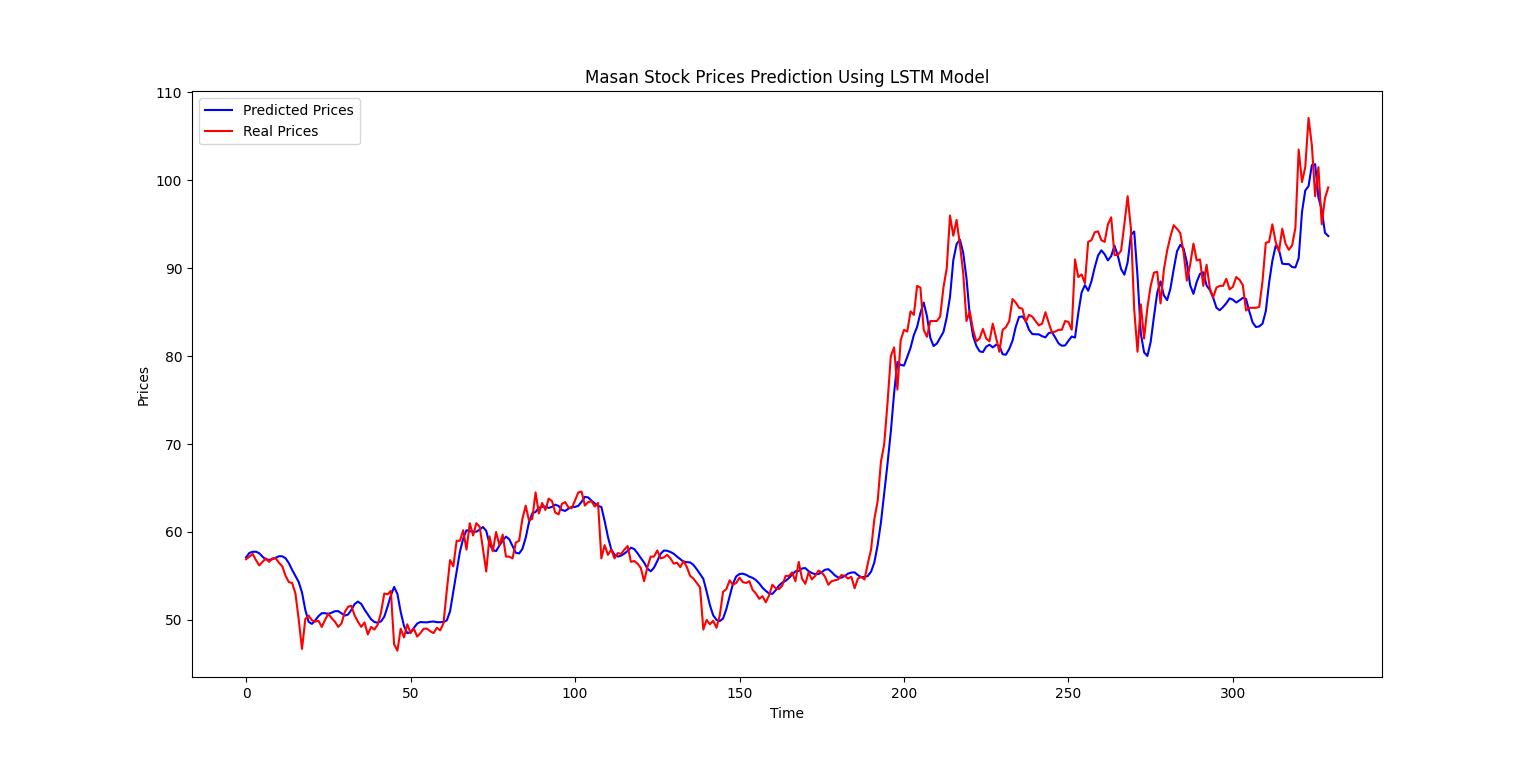
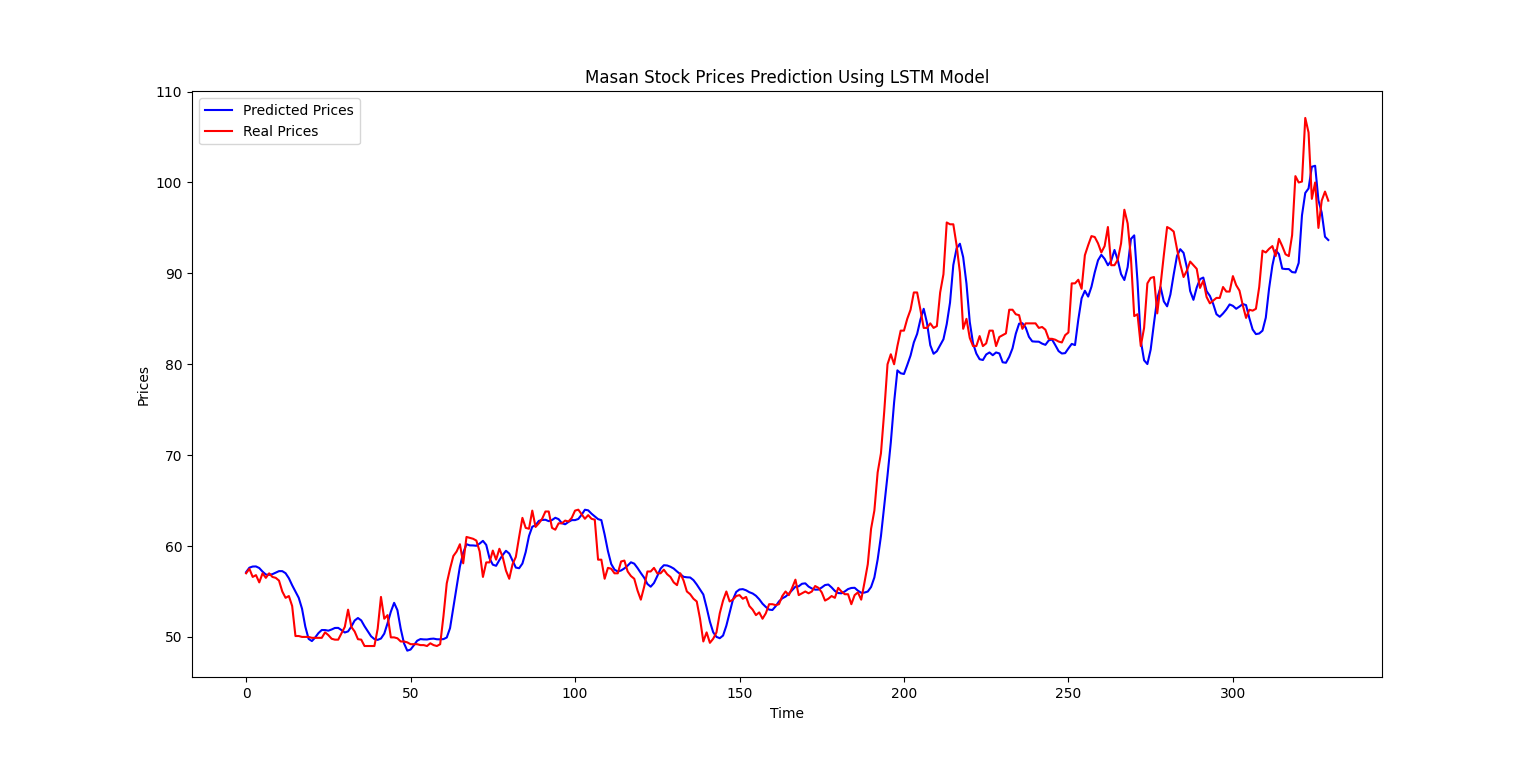
Draw LSTM prediction line with direct values in the excel file.

diff --git a/LSTM/prediction.py b/LSTM/prediction.py
@@ -81,7 +81,7 @@ predicted_stock_price = sc.inverse_transform(predicted_stock_price)
 
 # Visualising the results
 plt.plot(predicted_stock_price, color = "blue", label = "Predicted Prices")
-plt.plot(dataset_test.values, color = "red", label = "Real Prices")
+plt.plot(test_file["Close"].values, color = "red", label = "Real Prices")
 plt.title("Masan Stock Prices Prediction Using LSTM Model")
 plt.xlabel("Time")
 plt.ylabel("Prices")
